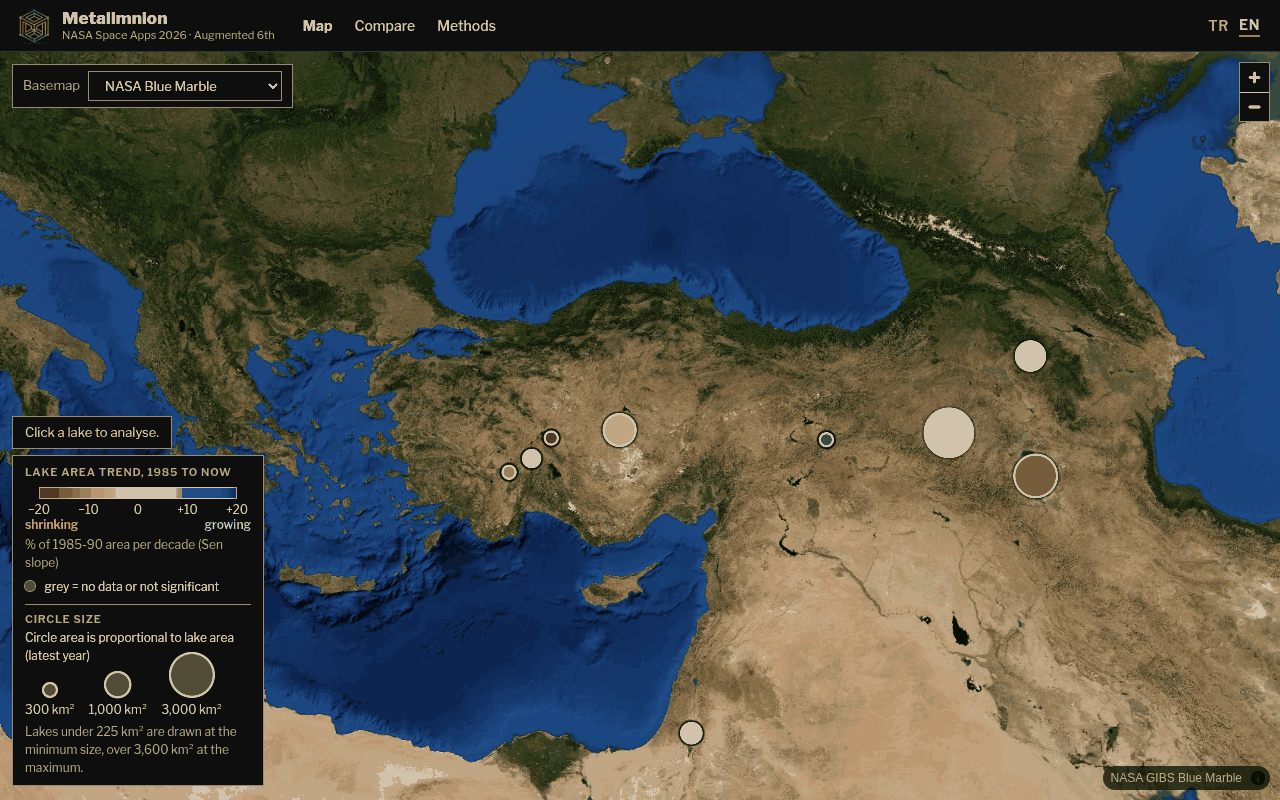
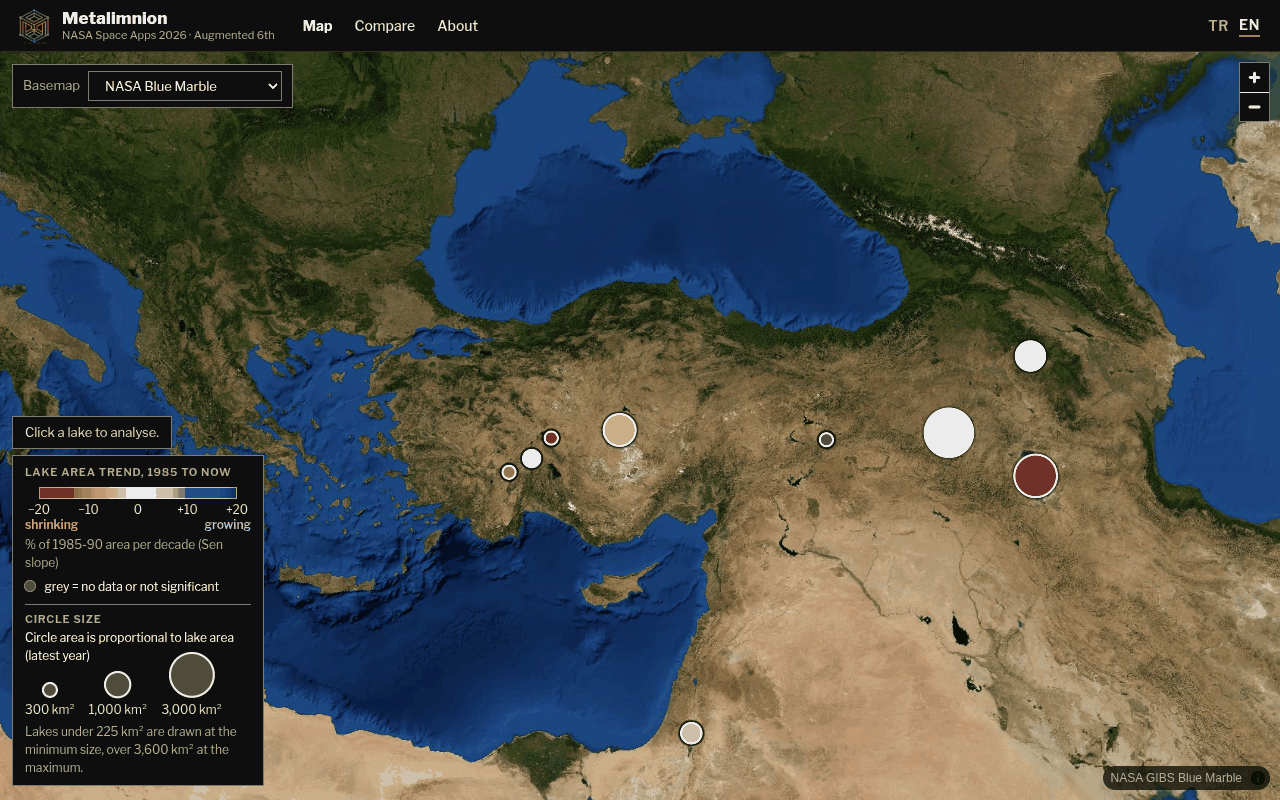
feat: rename Methods section to About (Hakkında), /methods redirects to /about

diff --git a/frontend/src/i18n.tsx b/frontend/src/i18n.tsx
@@ -11,7 +11,7 @@ const en: Record<string, string> = {
   "nav.skip": "Skip to content",
   "nav.map": "Map",
   "nav.compare": "Compare",
-  "nav.methods": "Methods",
+  "nav.methods": "About",
   "map.basemap": "Basemap",
   "bm.vector": "Vector (dark)",
   "bm.vectorlight": "Vector (light)",
@@ -123,7 +123,7 @@ const en: Record<string, string> = {
   "ref.a.inconclusive": "inconclusive: our trend is not significant",
   "ref.a.unverified_expectation": "unverified expectation (no source confirmed this direction); our trend differs",
   "ref.a.not_tested": "no single or confirmed direction in the literature, so no agreement test",
-  "methods.title": "Methods",
+  "methods.title": "About",
   "err.generic": "Something went wrong",
   "retry": "Retry",
   "chart.forecast": "What next? Area forecast to {year}",
@@ -216,7 +216,7 @@ const tr: Record<string, string> = {
   "nav.skip": "İçeriğe geç",
   "nav.map": "Harita",
   "nav.compare": "Karşılaştır",
-  "nav.methods": "Yöntem",
+  "nav.methods": "Hakkında",
   "map.basemap": "Altlık",
   "bm.vector": "Vektör (koyu)",
   "bm.vectorlight": "Vektör (açık)",
@@ -328,7 +328,7 @@ const tr: Record<string, string> = {
   "ref.a.inconclusive": "sonuçsuz: bizim eğilim anlamlı değil",
   "ref.a.unverified_expectation": "doğrulanmamış beklenti (yönü teyit eden kaynak yok); bizim eğilim farklı",
   "ref.a.not_tested": "literatürde tek ya da teyitli yön yok, uyum testi yapılmadı",
-  "methods.title": "Yöntem",
+  "methods.title": "Hakkında",
   "err.generic": "Bir sorun oluştu",
   "retry": "Tekrar dene",
   "chart.forecast": "Sırada ne var? {year} yılına kadar alan tahmini",
@@ -433,7 +433,7 @@ export function I18nProvider({ children, initial }: { children: ReactNode; initi
   return <Ctx.Provider value={{ lang, setLang, t: makeT(lang) }}>{children}</Ctx.Provider>;
 }
 
-/** Glossary on the Methods page: [term, English, Turkish]. */
+/** Glossary on the About page: [term, English, Turkish]. */
 export const GLOSSARY: [string, string, string][] = [
   ["Landsat","A pair of NASA/USGS satellite series photographing the whole Earth every 16 days since 1984. We use their pictures from August-September.","1984'ten beri tüm Dünya'yı 16 günde bir görüntüleyen NASA/USGS uydu serisi. Ağustos-Eylül görüntülerini kullanıyoruz."],
   ["MNDWI","A water index: a simple calculation on two colour bands that makes water bright and land dark, so a computer can draw the lake outline. It can be fooled by very shallow water, plants and salt crusts.","Su indeksi: iki renk bandı üzerinde basit bir hesap; suyu parlak, karayı koyu gösterir, böylece bilgisayar göl sınırını çizer. Çok sığ su, bitki ve tuz kabuğu tarafından yanıltılabilir."],
@@ -449,5 +449,5 @@ export const GLOSSARY: [string, string, string][] = [
   ["Climate share","How much of the lake's loss a rain-minus-evaporation model explains. The rest is unexplained: a sign of other causes (irrigation, withdrawals, model error), not proof of human impact.","Bir yağış-eksi-buharlaşma modelinin göl kaybının ne kadarını açıkladığı. Kalanı açıklanamayan kısımdır: başka nedenlerin (sulama, çekim, model hatası) işareti, insan etkisinin kanıtı değil."],
   ["Not computable","The data are too weak to give an honest number, so we show none instead of a misleading one.","Veriler dürüst bir sayı vermek için fazla zayıf; yanıltıcı bir sayı yerine hiçbir şey göstermiyoruz."],
   ["Reliability","How steady the yearly measurements are. Low = single years jump a lot (shallow, ephemeral water), so trends are shaky.","Yıllık ölçümlerin ne kadar tutarlı olduğu. Düşük = tek tek yıllar çok zıplıyor (sığ, geçici su), eğilimler sallantılı."],
-  ["SWOT","A NASA/CNES satellite (2022) measuring water level; not used in the app yet (see Methods).","Su seviyesini ölçen NASA/CNES uydusu (2022); uygulamada henüz kullanılmıyor (Yöntemler sayfasına bakın)."],
+  ["SWOT","A NASA/CNES satellite (2022) measuring water level; not used in the app yet (see About).","Su seviyesini ölçen NASA/CNES uydusu (2022); uygulamada henüz kullanılmıyor (Hakkında sayfasına bakın)."],
 ];

diff --git a/frontend/e2e/app.spec.ts b/frontend/e2e/app.spec.ts
@@ -109,15 +109,15 @@ test("default basemap is NASA Blue Marble (GIBS tiles requested first); no unver
 
 test("top bar: brand, nav with aria-current, TR/EN switch, no overflow at 390 px", async ({ page }) => {
   await page.route(/openfreemap|gibs\.earthdata/, (r) => r.abort());
-  await page.goto("/methods");
+  await page.goto("/about");
   const nav = page.getByRole("navigation", { name: "Main" });
-  await expect(nav.getByRole("link", { name: "Methods" })).toHaveAttribute("aria-current", "page");
-  await expect(page.getByRole("heading", { name: "Methods", exact: true, level: 1 })).toBeVisible();
+  await expect(nav.getByRole("link", { name: "About" })).toHaveAttribute("aria-current", "page");
+  await expect(page.getByRole("heading", { name: "About", exact: true, level: 1 })).toBeVisible();
   await expect(page.getByRole("heading", { name: /limitations/i })).toHaveCount(0);
   expect(await page.locator(".brand-name").evaluate((e) => getComputedStyle(e).textTransform)).toBe("none");
   await expect(page.locator(".brand-name")).toHaveText("Metalimnion");
   await expect(page).toHaveTitle("Metalimnion");
-  expect(await nav.getByRole("link", { name: "Methods" }).evaluate((e) => getComputedStyle(e).borderBottomWidth)).toBe("0px");
+  expect(await nav.getByRole("link", { name: "About" }).evaluate((e) => getComputedStyle(e).borderBottomWidth)).toBe("0px");
   await expect(nav.getByRole("link", { name: "Map" })).not.toHaveAttribute("aria-current", "page");
   expect((await page.locator("header.top").boundingBox())!.height).toBeLessThanOrEqual(60);
   await expect(page.locator(".brand-name")).toHaveText("Metalimnion");
@@ -129,7 +129,7 @@ test("top bar: brand, nav with aria-current, TR/EN switch, no overflow at 390 px
   expect((await page.request.get("/favicon-32.png")).status()).toBe(200);
   await page.getByRole("button", { name: /Switch language/ }).click();
   await expect(page.locator(".brand-name")).toHaveText("Metalimnion");
-  await expect(page.getByRole("navigation", { name: "Ana menü" }).getByRole("link", { name: "Yöntem" })).toHaveAttribute("aria-current", "page");
+  await expect(page.getByRole("navigation", { name: "Ana menü" }).getByRole("link", { name: "Hakkında" })).toHaveAttribute("aria-current", "page");
   await page.setViewportSize({ width: 390, height: 800 });
   const w = await page.evaluate(() => { const h = document.querySelector("header.top")!; return [h.scrollWidth, h.clientWidth]; });
   expect(w[0]).toBeLessThanOrEqual(w[1]);

diff --git a/frontend/src/components/components.test.tsx b/frontend/src/components/components.test.tsx
@@ -1,10 +1,12 @@
 import { describe, expect, it, vi } from "vitest";
-import { render, screen } from "@testing-library/react";
+import { render, screen, waitFor } from "@testing-library/react";
 import { burdurFull } from "../fixtures";
 import { AreaChart, areaOption, ClimateChart, ForecastChart } from "./Charts";
 import { AnalysisProgress, eta, LiveCards } from "./Panel";
 import { I18nProvider, makeT } from "../i18n";
 import MethodsPage from "../pages/MethodsPage";
+import App from "../App";
+import { MemoryRouter } from "react-router-dom";
 import * as PanelMod from "./Panel";
 import * as ChartsMod from "./Charts";
 import { QueryClient, QueryClientProvider } from "@tanstack/react-query";
@@ -128,12 +130,25 @@ describe("removed UI: summary disclaimer, cache/stale labels, limitations sectio
       for (const k of ["live.cache", "live.stale", "tip.cache", "tip.stale"]) expect(t(k)).toBe(k);
     }
   });
-  it("Methods page is titled Methods and has no Limitations section (EN and TR)", () => {
+  it("About page is titled About / Hakkında and has no Limitations section (EN and TR)", () => {
     for (const lang of ["en", "tr"] as const) {
       const { container, unmount } = render(<I18nProvider initial={lang}><MethodsPage /></I18nProvider>);
-      expect(container.querySelector("h1")?.textContent).toBe(lang === "en" ? "Methods" : "Yöntem");
+      expect(container.querySelector("h1")?.textContent).toBe(lang === "en" ? "About" : "Hakkında");
       expect(screen.queryByRole("heading", { name: /limitations|sınırlamalar/i })).toBeNull();
       expect(container.textContent).not.toMatch(/Live cards come from public APIs|Akşehir is flagged low reliability/);
+      unmount();
+    }
+  });
+});
+
+describe("About section route", () => {
+  it("nav shows About / Hakkında linking /about, and /methods redirects to /about", async () => {
+    for (const [lang, label] of [["en", "About"], ["tr", "Hakkında"]] as const) {
+      const { unmount } = render(<I18nProvider initial={lang}><MemoryRouter initialEntries={["/methods"]}><App /></MemoryRouter></I18nProvider>);
+      const link = screen.getByRole("link", { name: label });
+      expect(link.getAttribute("href")).toBe("/about");
+      await waitFor(() => expect(link.getAttribute("aria-current")).toBe("page"));
+      expect(await screen.findByRole("heading", { level: 1, name: label })).toBeTruthy();
       unmount();
     }
   });

diff --git a/frontend/src/App.tsx b/frontend/src/App.tsx
@@ -1,8 +1,8 @@
-import { Link, NavLink, Route, Routes } from "react-router-dom";
+import { Link, Navigate, NavLink, Route, Routes } from "react-router-dom";
 import { useI18n } from "./i18n";
 import { lazy, Suspense } from "react";
 
-// Route-level code splitting: the map (maplibre), compare (ECharts) and methods pages load on first visit.
+// Route-level code splitting: the map (maplibre), compare (ECharts) and about pages load on first visit.
 const MapPage = lazy(() => import("./pages/MapPage"));
 const ComparePage = lazy(() => import("./pages/ComparePage"));
 const MethodsPage = lazy(() => import("./pages/MethodsPage"));
@@ -23,7 +23,7 @@ export default function App() {
         <nav aria-label={t("nav.main")}>
           <NavLink to="/" end>{t("nav.map")}</NavLink>
           <NavLink to="/compare">{t("nav.compare")}</NavLink>
-          <NavLink to="/methods">{t("nav.methods")}</NavLink>
+          <NavLink to="/about">{t("nav.methods")}</NavLink>
         </nav>
         <button className="lang" onClick={() => setLang(lang === "en" ? "tr" : "en")} aria-label={t("nav.lang")}>
           <span className={lang === "tr" ? "on" : ""} aria-hidden="true">TR</span>
@@ -35,7 +35,8 @@ export default function App() {
         <Routes>
           <Route path="/" element={<MapPage />} />
           <Route path="/compare" element={<ComparePage />} />
-          <Route path="/methods" element={<MethodsPage />} />
+          <Route path="/about" element={<MethodsPage />} />
+          <Route path="/methods" element={<Navigate to="/about" replace />} />
           <Route path="*" element={<MapPage />} />
         </Routes>
         </Suspense>

diff --git a/frontend/src/styles.css b/frontend/src/styles.css
@@ -191,4 +191,4 @@ tbody tr:hover td { background: var(--surface); }
   .stack { bottom: 30px; }
   .cards { grid-template-columns: 1fr; }
 }
-@media (max-width: 520px) { .brand { gap: 8px; } .brand-logo { width: 28px; height: 28px; } .brand-name { font-size: 12px; line-height: 1.15; white-space: normal; max-width: 86px; } .top nav a { font-size: 13px; } }
+@media (max-width: 520px) { .brand { gap: 8px; } .brand-logo { width: 28px; height: 28px; } .brand-name { font-size: 12px; line-height: 1.15; white-space: normal; max-width: 86px; } .top nav { gap: 8px; } .top nav a { font-size: 13px; } }

diff --git a/backend/tests/test_stage4_api.py b/backend/tests/test_stage4_api.py
@@ -300,7 +300,7 @@ def test_index_endpoint_and_spa_serving(st, tmp_path):
     (dist / "assets" / "a.js").write_text("1")
     st.dist_dir = str(dist)
     c = TestClient(create_app(st, runner=fake_runner))
-    for p in ("/", "/compare", "/methods"):
+    for p in ("/", "/compare", "/about", "/methods"):
         assert c.get(p).text == "<html>app</html>", p
     assert c.get("/assets/a.js").status_code == 200 and c.get("/api/health").json() == {"status": "ok"}
 

diff --git a/backend/api/main.py b/backend/api/main.py
@@ -20,7 +20,7 @@ from backend.core.jsonsafe import SafeJSONResponse as JSONResponse        # NaN/
 
 MAX_POLYGON_KM2 = 20_000.0
 DIST = os.path.join(os.path.dirname(__file__), "..", "..", "frontend", "dist")
-SPA_ROUTES = ("compare", "methods")
+SPA_ROUTES = ("compare", "about", "methods")
 
 
 # Response models, so the OpenAPI schema (and openapi-typescript) carry real types for /api/lakes.

diff --git a/README.md b/README.md
@@ -47,7 +47,7 @@ cd frontend && npm run dev          # Vite proxies /api to :8000
 Single port (demo):
 ```bash
 cd frontend && npm run build && cd ..           # -> frontend/dist
-.venv/bin/uvicorn backend.api.main:app --port 8000   # API + UI on http://127.0.0.1:8000 (/compare, /methods)
+.venv/bin/uvicorn backend.api.main:app --port 8000   # API + UI on http://127.0.0.1:8000 (/compare, /about)
 ```
 Docker: `docker compose up` serves the same single port 8000 with `./data` mounted.
 **Docker was NOT verified**: the build machine has no Docker. Try it once online before relying on it.
@@ -105,7 +105,7 @@ Summaries in the UI are filled from templates, so every number comes from the da
 - `frontend/src/`: `App.tsx`, `main.tsx`, `i18n.tsx` (all EN/TR strings and the glossary), `styles.css` (theme and font),
   `lib/api.ts` (types, client, hooks), `lib/util.tsx` (colours, sorting, summary sentence, help bubble),
   `components/` (`MapView`, `Panel` incl. live cards, `Charts` incl. the ECharts wrapper), `pages/` (`MapPage` incl. the
-  timeline, `ComparePage`, `MethodsPage`).
+  timeline, `ComparePage`, `MethodsPage` (the About page)).
 - Design: flat, editorial; Franklin Gothic where it is installed, otherwise the bundled open-source Libre Franklin
   (Franklin Gothic itself is licensed and is not shipped).
 
